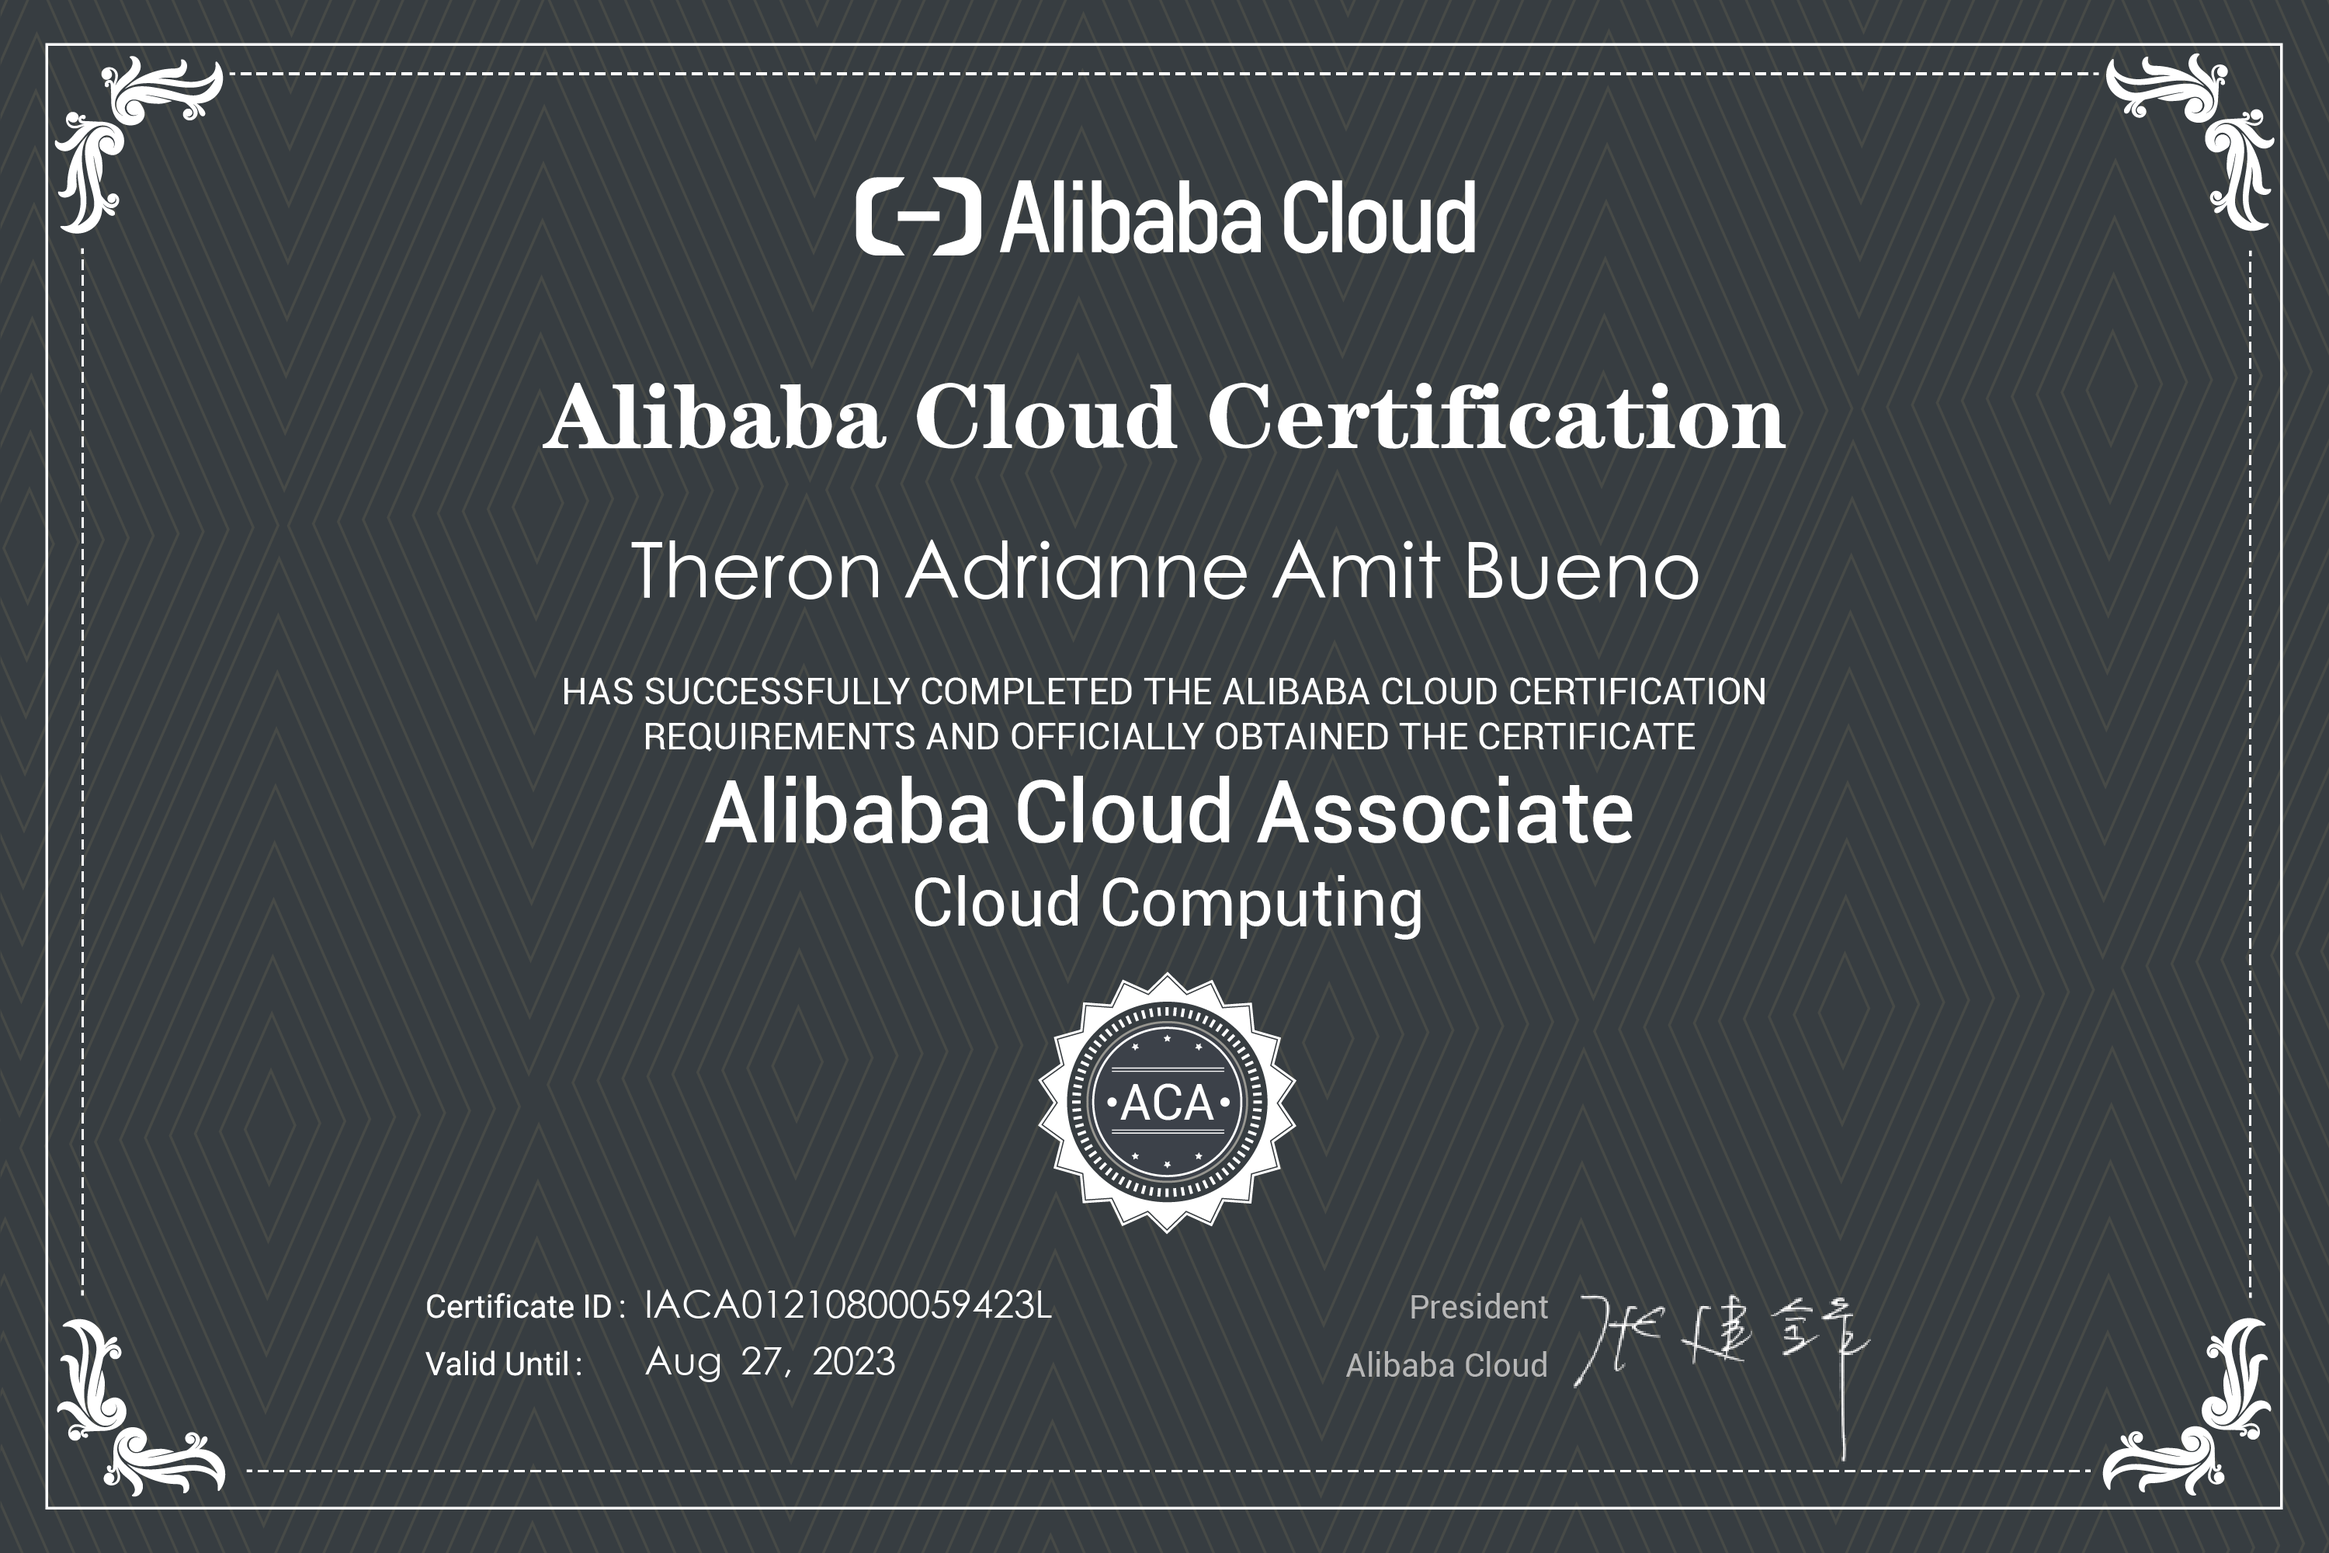
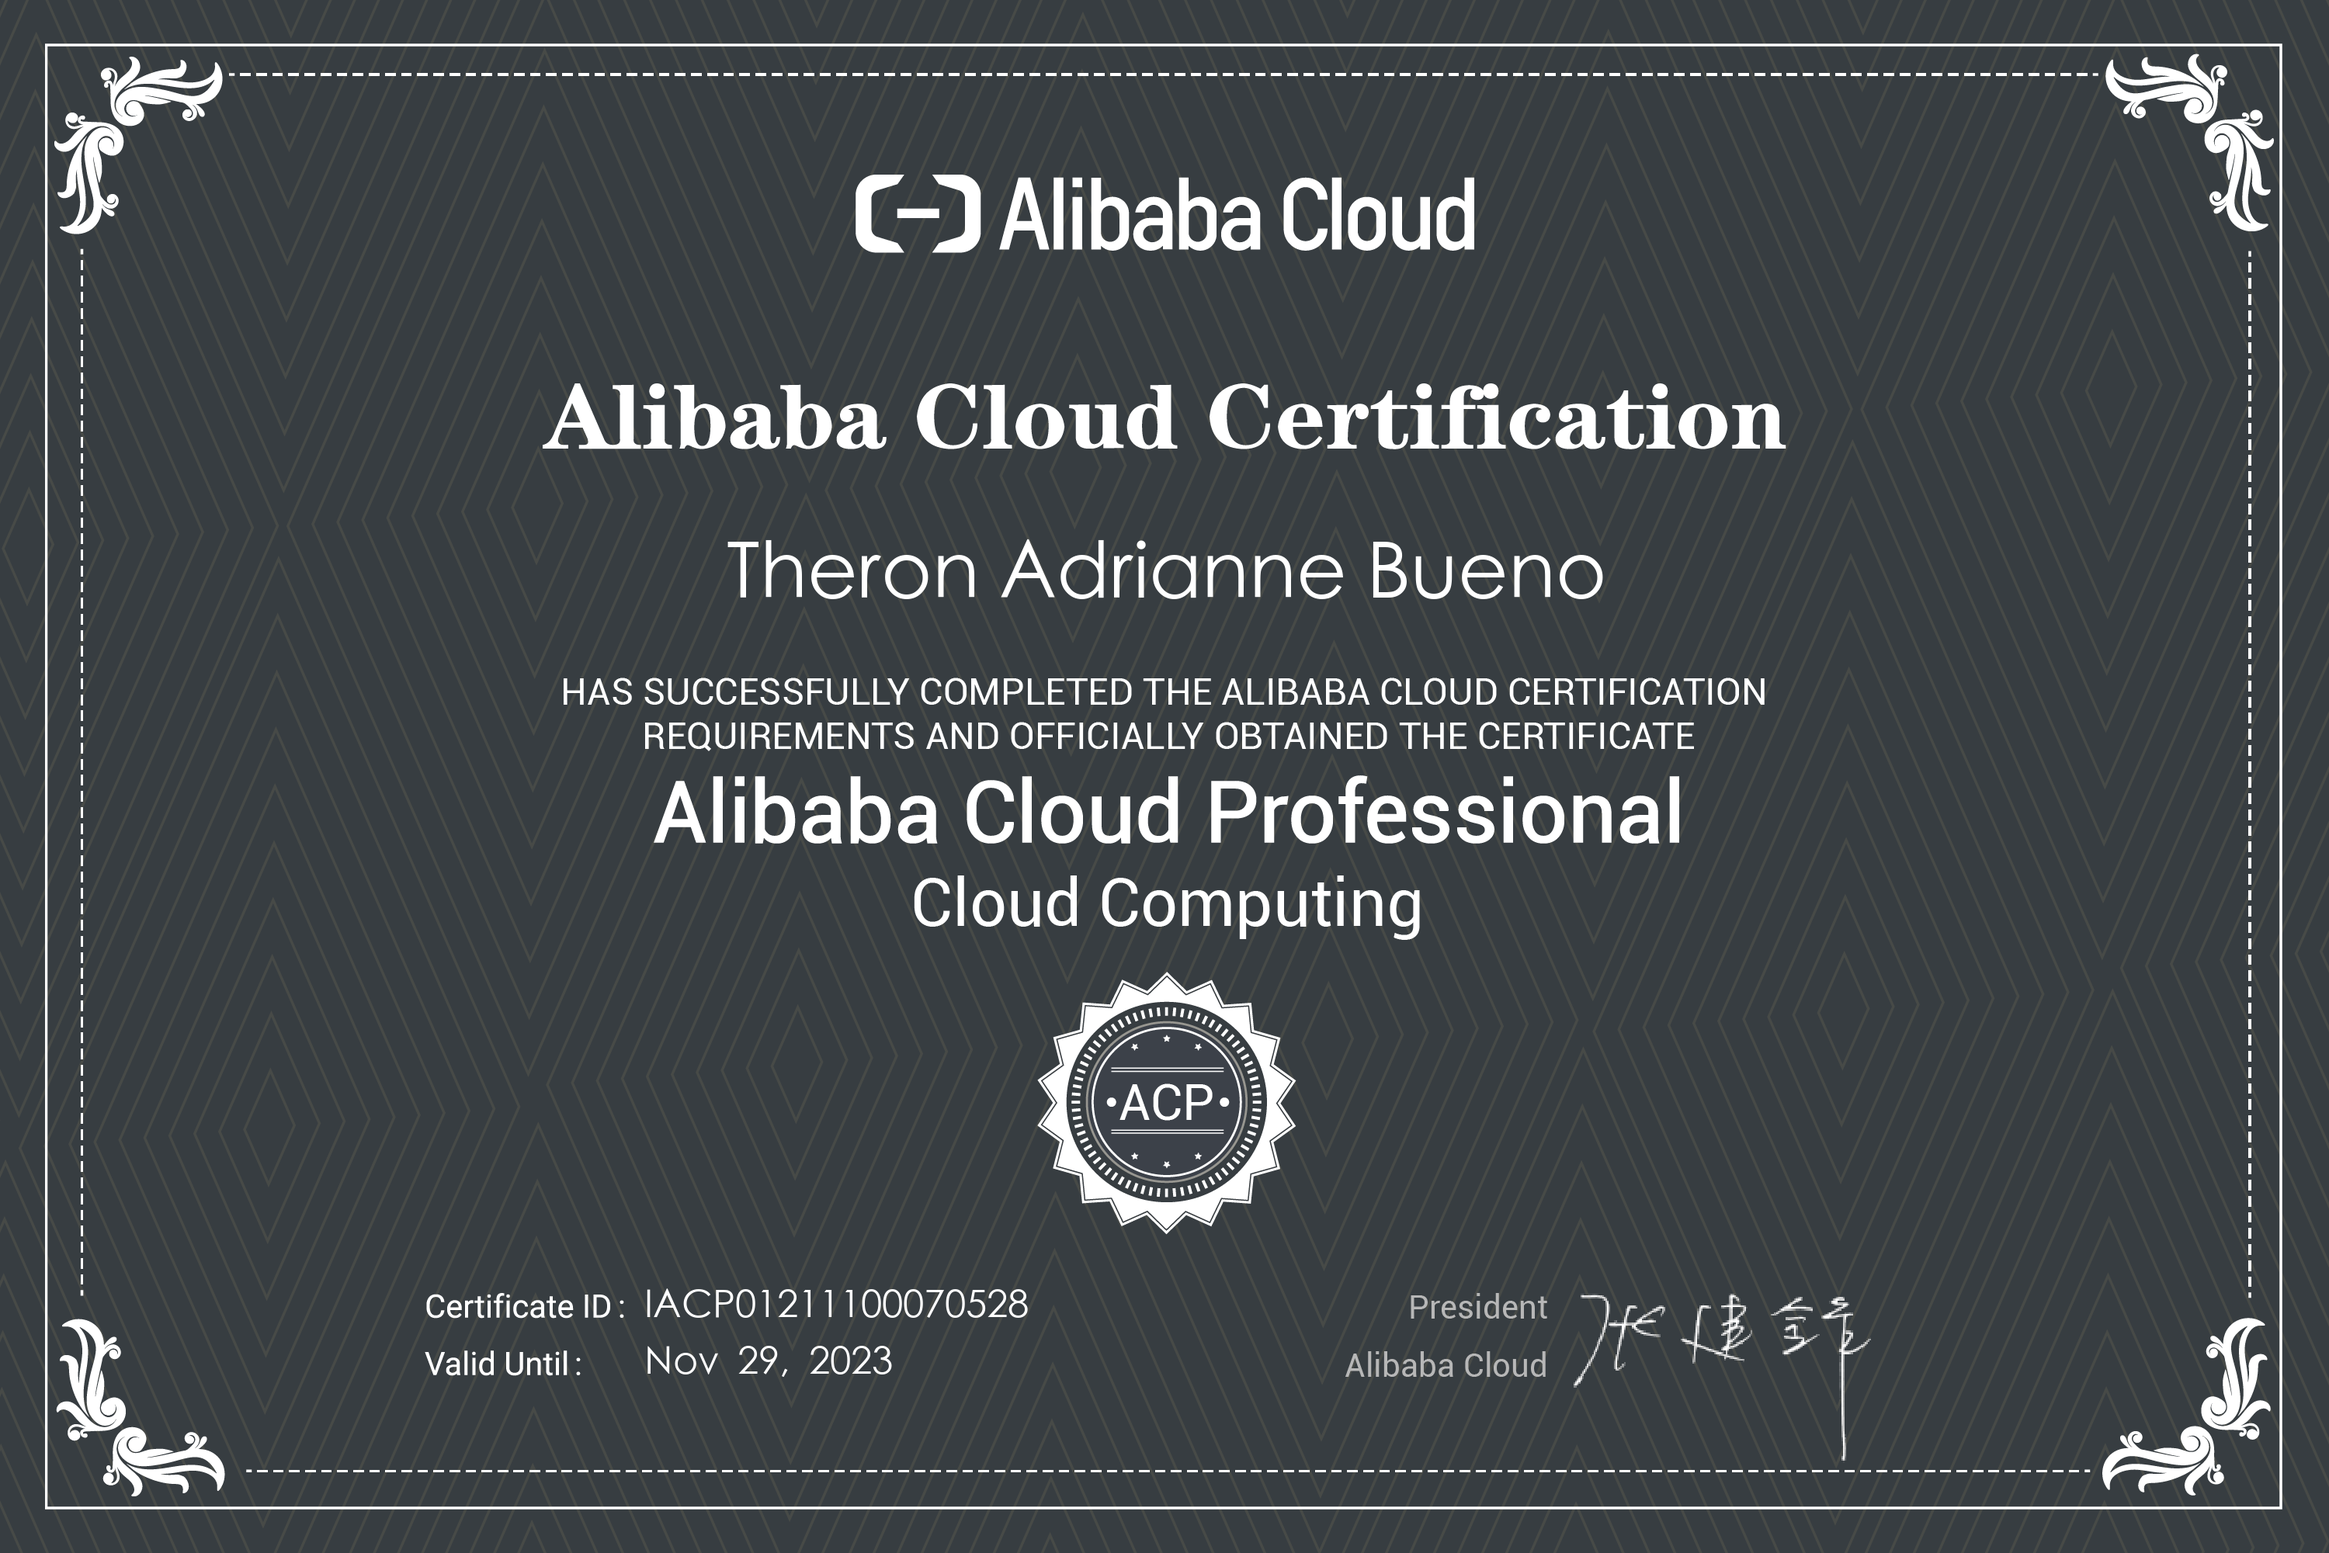
update certificate pictures and details

diff --git a/src/constants/constants.js b/src/constants/constants.js
@@ -21,14 +21,14 @@ export const projects = [
     title: 'Medicall',
     description: "A Static Website for a Pharmacy. Primary Focus in doing this project is to learn more about Project Management, Source-Code Management and Developer Collaboration.",
       image: '/images/medicall-ls-1.png',
-      tags: ['HTML', 'Bootstrap 5'],
+      tags: ['HTML', 'Bootstrap', 'JavaScript'],
     source: 'https://github.com/PLM-CPE0326-ELECTIVES-2022/CA-2-BLOCK-1-RC',
     visit: '/Medicall.pdf',
     id: 2,
   },
   {
     title: 'IVSHS School Website and Learning Management System',
-    description: "Created using WordPress and Elementor Plugin. Bought the domain name, Hosted and Deployed on a VPS. With the LMS, you can create and manage Grades, Courses, Sections, Lessons, Answers and Questions for the quizzes.",
+    description: "Created using WordPress and Elementor Plugin. Bought the domain name, Hosted and Deployed on GoDaddy. With the LMS, you can create and manage Grades, Courses, Sections, Lessons, and others.",
     image: '/images/ivshs.com.jpg',
     tags: ['WordPress', 'Elementor', 'PHP'],
     source: '',
@@ -39,37 +39,61 @@ export const projects = [
 
 export const TimeLineData = [
   { year: 2013, text: 'Wrote my first "Hello, World!"', },
-  { year: 2018, text: 'Started acccepting Freelance Projects', },
+  { year: 2018, text: 'Started Freelancing', },
   { year: 2019, text: 'Took BS Computer Engineering in College', },
   { year: 2020, text: 'Worked with student-led organizations during the pandemic', },
   { year: 2021, text: 'Became one of the 10 Filipino Scholars of ULAP.org', },
   { year: 2022, text: 'Got cloud professional certifications from Microsoft, AWS, and Alibaba Cloud', },
-  { year: 2023, text: 'Graduated College and is now an overemployed Software Engineer', },
+  { year: 2023, text: 'Finished College and now plays guitar while not coding', },
 ];
 
 export const certifications = [
+  {
+    title: 'AWS Certified Cloud Practitioner',
+    description: "Demonstrated cloud fluency and understanding of essential IT services and their uses on AWS Cloud. Thoroughly prepared for the certification by training with AWS User Group Manila and graduating from AWS Academy.",
+    image: '/images/cert-aws-cloud-practitioner.png',
+    details: 'https://aws.amazon.com/certification/certified-cloud-practitioner/',
+    verify: 'https://www.credly.com/badges/470b7fbd-aa3f-4b81-9b49-79fb1aad237a',
+    id: 0,
+  },
+  {
+    title: 'Google IT Support Professional Certificate',
+    description: "Acquired Google IT Support Certificate with hands-on practice-based assessments in troubleshooting, customer service, networking, operating systems, system administration, and security.",
+    image: '/images/GCC_badge_IT_Support_1000x1000.png',
+    details: 'https://www.coursera.org/professional-certificates/google-it-support',
+    verify: 'https://www.credly.com/badges/86aaa5c8-c180-493a-aa38-cc1a13f505c6',
+    id: 1,
+  },
+  {
+    title: 'Microsoft Certified: Azure Fundamentals (AZ-900)',
+    description: "Exhibited knowledge and proficiency of cloud services and how those services are provided with Microsoft Azure.",
+    image: '/images/cert-az-900.png',
+    details: 'https://learn.microsoft.com/api/credentials/share/en-us/THERONBUENO/95C7A50D87072055?sharingId=AF0FB8BD620CCCAF',
+    verify: 'https://www.credly.com/badges/965c94df-1bd4-47e1-9849-af99fed184bc/',
+    id: 2,
+  },
   {
     title: 'Google Cloud Platform Badges',
     description: "Completed Infrastructure Modernization and Application Development hands-on courses and solved challenges by Google Developer Group Manila.",
     image: '/images/3.jpg',
     details: 'https://gdsc.community.dev/events/details/developer-student-clubs-pamantasan-ng-lungsod-ng-maynila-presents-gcpinas-learn-google-cloud-platform/',
     verify: 'https://www.cloudskillsboost.google/public_profiles/fd703a21-4c34-4212-9eee-abcd170a320b',
-    id: 0,
+    id: 3,
   },
   {
     title: 'ACP Cloud Computing',
     description: "ACP Cloud Computing Certification is designed for those familiar to cloud computing and with a rich operational knowledge of Alibaba Cloud products. This certification covers a spectrum of Alibaba Cloud core services, including architecture, networking, cloud security, and best practices.",
-    image: '/images/1.png',
-    details: 'https://google.com',
-    verify: 'https://edu.alibabacloud.com/certification/acp_cloudcomputing',
-    id: 0,
+    image: '/images/2.png',
+    details: 'https://edu.alibabacloud.com/certification/acp_cloudcomputing',
+    verify: 'https://xuecdn2.aliyunedu.net/img_d3cf62db918f82d25cc68a511e3502bc.png',
+    id: 4,
   },
   {
     title: 'ACA Developer Certification',
     description: "Alibaba Developer Certification is designed for individuals who hold development positions and use Alibaba Cloud products to manage and maintain Alibaba Cloud-based applications.",
-    image: '/images/2.png',
-    details: 'https://google.com',
-    verify: 'https://google.com',
-    id: 1,
+    image: '/images/1.png',
+    details: 'https://edu.alibabacloud.com/certification/aca_developer',
+    verify: 'https://xuecdn2.aliyunedu.net/img_eec4a5efdc15ad52c8bb1c4955d885ef.png',
+    id: 5,
   },
 ];
